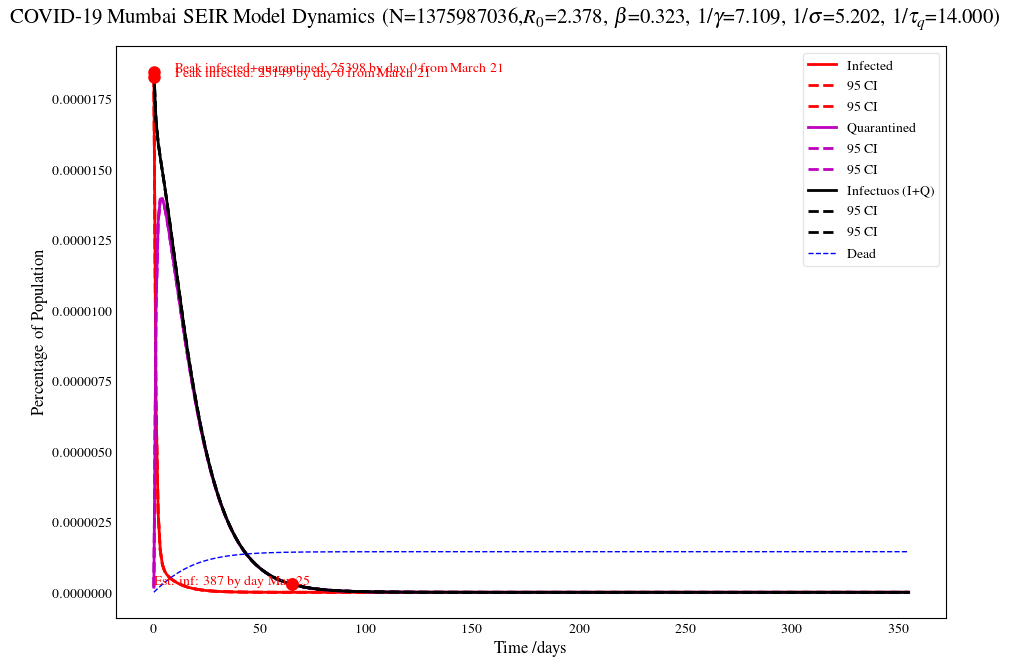
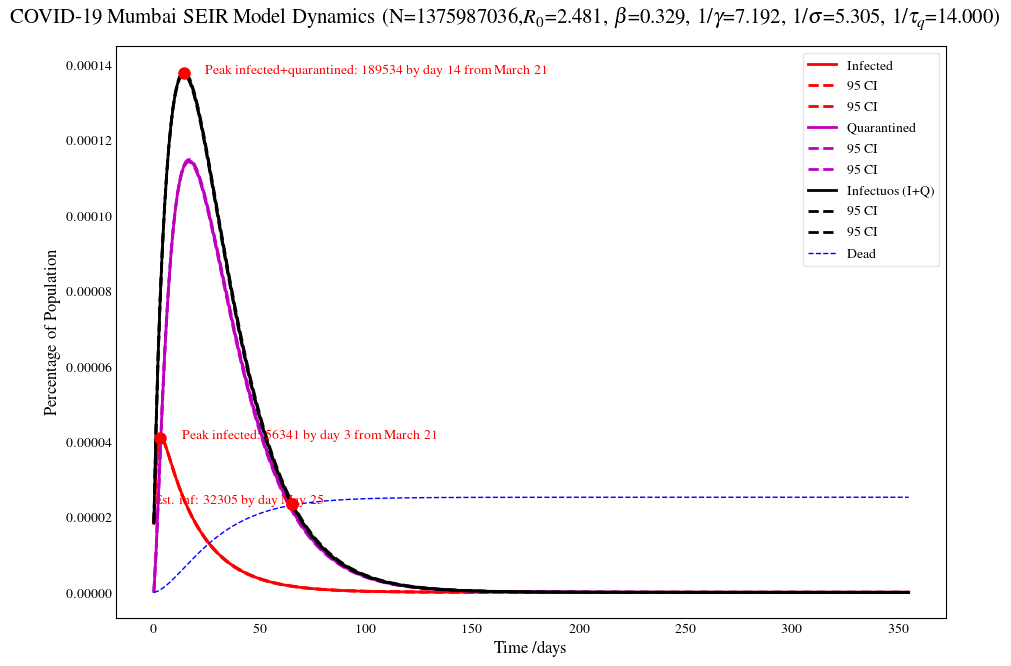
some changes

diff --git a/sim_mumbaiPuneSEIR_model_MC.py b/sim_mumbaiPuneSEIR_model_MC.py
@@ -36,7 +36,7 @@ D0           = 5
 T0           = 334  # 249  
 Q0           = 249           #Q0 is 1% of infectious I0
 I0           = (1.01/0.01) * Q0
-contact_rate = 1           # number of contacts per day
+contact_rate = 10           # number of contacts per day
 E0           = (contact_rate - 1)*I0
 
 
@@ -70,7 +70,7 @@ def seir_mumbai(t, X, N, beta, gamma, sigma, m, q, tau_q):
 ###################################################
 
 # Control variable:  percentage quarantined
-q           = 0.90
+q           = 0.40
 
 # Model Parameters to sample from Gamma Distributions
 gamma_inv, gamma_inv_shape = 7 , 0.1 
@@ -78,19 +78,17 @@ sigma_inv, sigma_inv_shape = 5.1, 0.1
 r0, r0_shape               = 2.28 , 0.1     
 
 # Sample 1000 points from gamma distribution of gamma_inv
-
 gamma_inv_samples = gamma_inv*np.random.gamma(gamma_inv, gamma_inv_shape, 1000)
 sigma_inv_samples = sigma_inv*np.random.gamma(sigma_inv, sigma_inv_shape, 1000)
 r0_samples = r0*np.random.gamma(r0, r0_shape, 1000)
-
-
 
 # For gamma pdf plots
 x           = np.linspace(1E-6, 10, 1000)
 num_samples = 1000
 
 #### Gamma distributed samples for gamma_inv ####
-k = 1
+#### --> This might be wrong?
+k = 2
 loc = gamma_inv
 theta = gamma_inv_shape
 gamma_inv_dist    = gamma(k, loc, theta)
@@ -102,7 +100,7 @@ plt.plot(x, gamma_inv_dist.pdf(x), 'r',
          label=r'$k=%.1f,\ \theta=%.1f$' % (k, theta))
 
 #### Gamma distributed samples for sigma_inv ####
-k = 1
+k = 2
 loc = sigma_inv
 theta = sigma_inv_shape
 sigma_inv_dist = gamma(k, loc, theta)
@@ -116,7 +114,7 @@ count, bins, ignored = plt.hist(sigma_inv_samples, 50, density=True)
 
 
 #### Gamma distributed samples for r0 ####
-k = 1
+k = 2
 loc = r0
 theta = r0_shape
 r0_dist = gamma(k, loc, theta)
@@ -169,7 +167,6 @@ for ii in range(simulations):
     print("R0=",R0)
     print("D0=",D0)
     
-
     # Initial conditions vector
     y0 = S0, E0, I0, Q0, R0, D0
 

diff --git a/sim_mumbaiPuneSEIR_model.py b/sim_mumbaiPuneSEIR_model.py
@@ -40,7 +40,7 @@ gamma      = 1.0 / gamma_inv
 tau_q      = 1.0 /tau_q_inv
 
 # Control variable:  percentage quarantined
-q           = 0.90
+q           = 0.40
 
 print('*****   Hyper-parameters    *****')
 print('N=',N,'days=',days, 'r0=',r0, 'gamma_inv (days) = ',gamma_inv, 'tauq_inv (days) = ',tau_q_inv)
